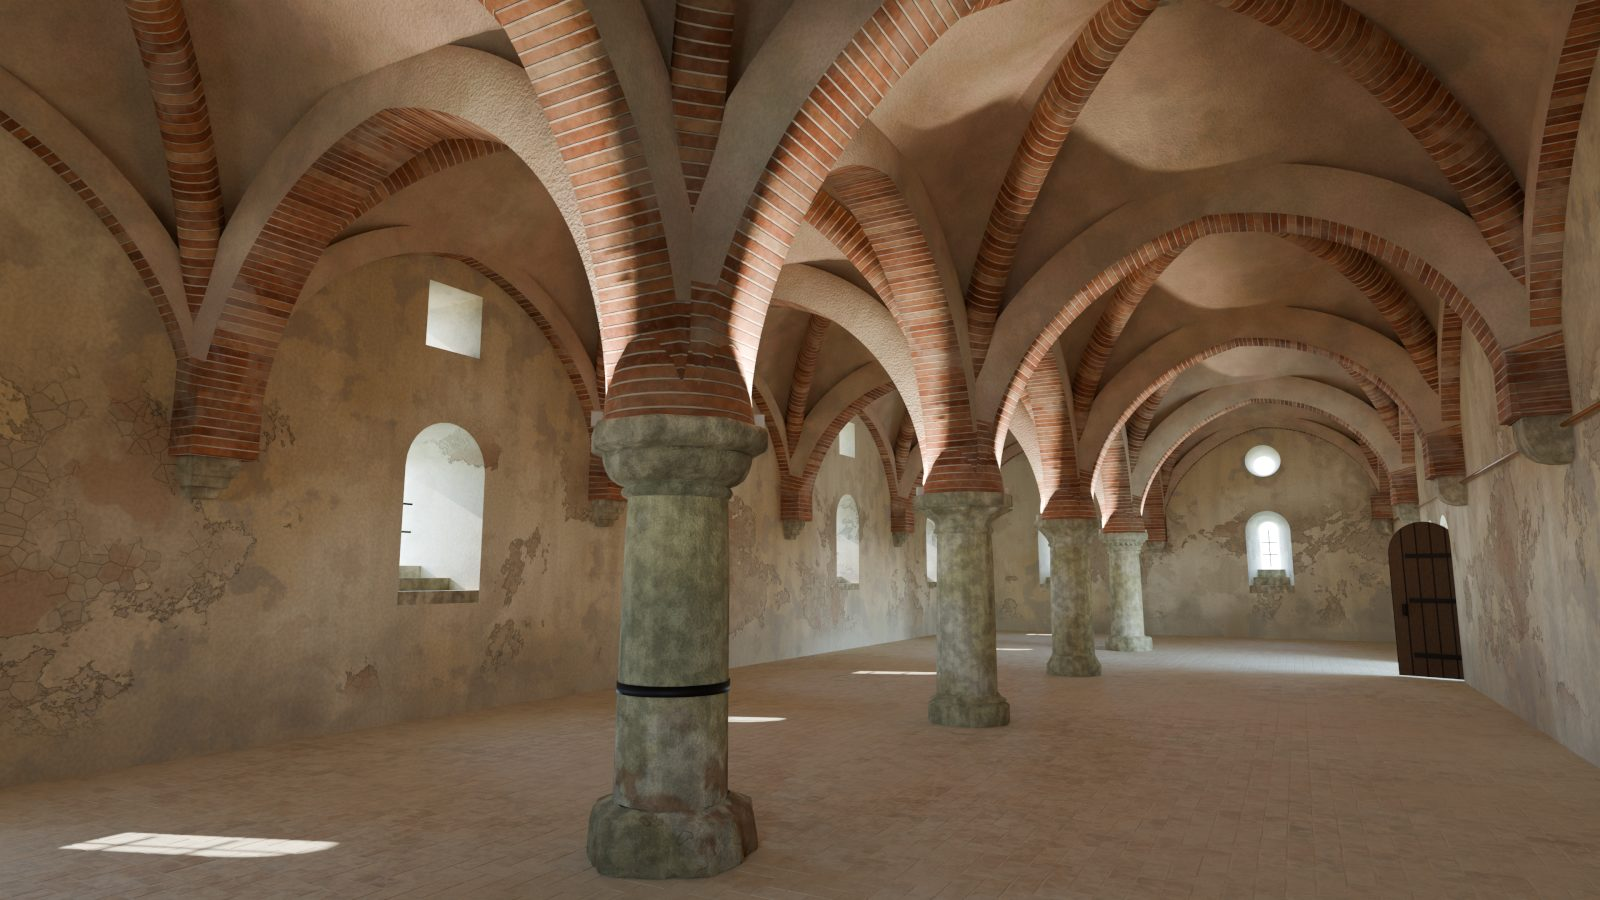
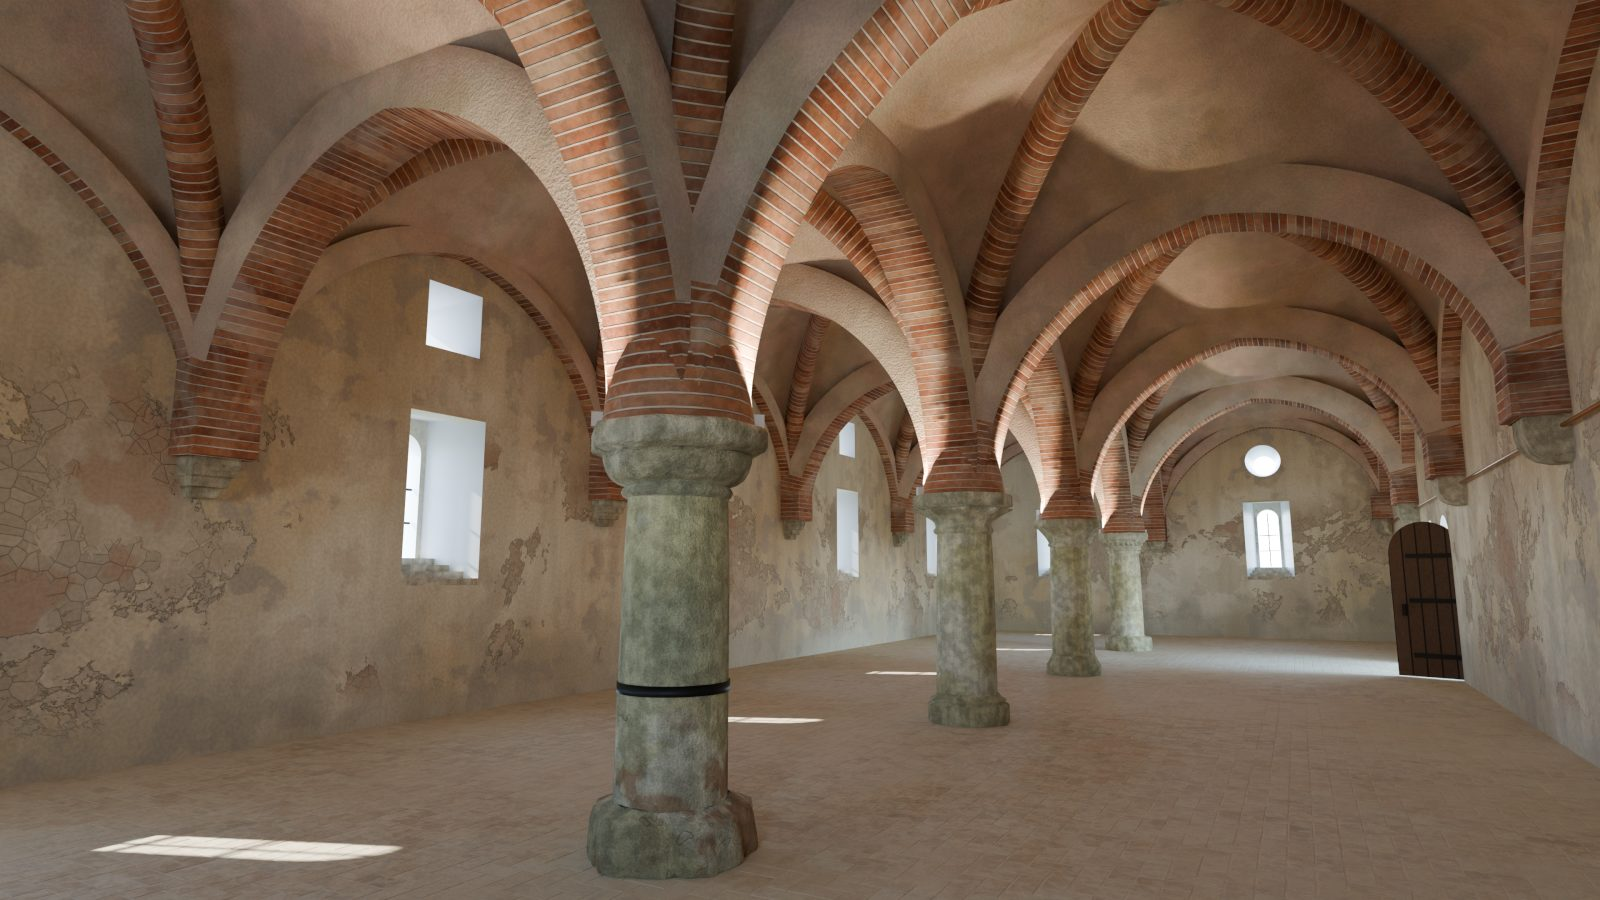
Large windows as they are today; arched heads kept as a hypothesis switch
- Measured on photo 1 with the calibrated camera (left and far wall
  agree): deep splayed rectangular recess (1.10 m at the face, 0.64 m at
  the back, 0.80 m deep) under a flat lintel at 3.52 m, sill 1.48 m, four
  pale stone steps (8 cm risers) up to a narrow round-headed light
  (0.50 m, 1.80-3.33 m) with iron glazing bars. Reveals in clean lime
  plaster (no flaking), stone lintel object.
- WINDOW_HEADS=arched builds the hypothesis: round rere-arch instead of
  the lintel (crown 0.20 m above today's soffit) -> foresteria_arched.blend.
  Documented as a reading of the forms, not history.
- wall_slab: per-opening depth, self-intersecting boolean for recess +
  light; reveal faces get their own material.

diff --git a/blender/build_foresteria.py b/blender/build_foresteria.py
@@ -48,9 +48,16 @@ LOSS_T = 0.535                 # plaster-loss threshold = nq(0.72): about 28 % o
 UPLIGHT_W = 120              # watts per uplight (two per capital): vault about as bright as the walls, as in photo 2
 FLOOR_BRICK_W = 0.14          # floor bricks are 2:1, 28 x 14 cm, laid in herringbone
 SPRINGER_PROFILE = [(0.47, HS), (0.45, HS + 0.18), (0.38, HS + 0.55)]   # (radius, z): low brick block above each capital (round, smooth-shaded)
-# splayed arched windows: inner (room side) and outer opening, sill heights z, head heights z, widths
-WIN_SIDE = dict(zb_in=1.25, zt_in=3.40, w_in=1.15, zb_out=1.75, zt_out=3.05, w_out=0.42)   # left wall, one per bay
-WIN_END = dict(zb_in=1.10, zt_in=3.25, w_in=1.05, zb_out=1.80, zt_out=3.00, w_out=0.40)    # end walls, one per nave
+# large windows (left wall, one per bay; end walls, one per nave), measured on photo 1 with the calibrated camera:
+# a deep rectangular recess under a flat lintel, steps rising to a narrow round-headed light near the outer face
+WIN = dict(zb=1.48, zt=3.52, w=1.10, depth=0.80,              # recess: sill, lintel soffit, width at the face, depth
+           w_back=0.64,                                       # splayed: width at the back of the recess, round the light
+           light_zb=1.80, light_zt=3.33, light_w=0.50,        # light: sill, top of its round head, width
+           steps=4)
+# WINDOW_HEADS=arched builds a HYPOTHESIS, not what the photos show: the recess closed by a round rere-arch instead of
+# the lintel (crown 0.20 m above today's soffit), as the original 13th-15th century form may have been
+WINDOW_HEADS = os.environ.get('WINDOW_HEADS', 'lintel')
+ARCHED_CROWN_ABOVE_LINTEL = 0.20
 WEB_SINK = 0.12              # plaster cells dip this far where they meet a rib, so rib sides always reach the plaster
 
 
@@ -361,6 +368,16 @@ def mat_plaster_wall():
     return b.finish(col, 0.92, b.bump(h, 1.0, 0.015))
 
 
+def mat_plaster_reveal():
+    """window and door reveals: clean, pale lime plaster with soft mottling (photo 1)"""
+    b = NB('plaster_reveal')
+    big = b.noise(1.2, 5, 0.6)
+    fine = b.noise(30, 4, 0.6)
+    col = b.mix(b.ramp(big, [(nq(0.10), 0), (nq(0.90), 1)]), (0.82, 0.73, 0.53), (0.74, 0.63, 0.43))
+    col = b.mul(col, b.ramp(fine, [(nq(0.10), 0.90), (nq(0.90), 1.04)]), 0.6)
+    return b.finish(col, 0.93, b.bump(fine, 0.3, 0.01))
+
+
 def mat_plaster_vault():
     """vault plaster: soft rose and ochre blotches (photo 2), a fine dark speckle and sandy grain (photo 3),
     trowel undulation"""
@@ -524,6 +541,7 @@ MAT = {}
 def make_materials():
     MAT['wall'] = mat_plaster_wall()
     MAT['vault'] = mat_plaster_vault()
+    MAT['reveal'] = mat_plaster_reveal()
     MAT['floor'] = mat_floor_mortar()
     MAT['floor_bricks'] = mat_floor_bricks()
     MAT['rib'] = mat_brick_rib()
@@ -534,6 +552,7 @@ def make_materials():
     MAT['cap_leaf'] = mat_stone('capital_leaf', (0.58, 0.55, 0.36), (0.68, 0.65, 0.45), rust=False)
     MAT['cap_panel'] = mat_stone('capital_panel', (0.59, 0.55, 0.36), (0.69, 0.65, 0.45), rust=False)
     MAT['cap_teeth'] = mat_stone('capital_teeth', (0.66, 0.63, 0.43), (0.75, 0.73, 0.53), rust=False)   # palest, column 4
+    MAT['step'] = mat_stone('step_stone', (0.70, 0.66, 0.54), (0.78, 0.74, 0.61), rust=False)   # pale worn steps
     MAT['corbel'] = mat_stone('corbel_stone', (0.50, 0.46, 0.33), (0.58, 0.53, 0.39), rust=False)
     MAT['ground'] = mat_ground()
     MAT['iron'] = flat('iron', (0.03, 0.03, 0.03), 0.5, 0.8)
@@ -766,8 +785,10 @@ def wall_slab(name, axis, at, outward, openings):
     # openings -> one cutter object, one boolean
     if openings:
         cb = bmesh.new()
-        for (pa, pb, d_in) in openings:
-            hb = hull_cutter(pa, pb, lambda a, z, d: p3(a, z, d), d_in, WALL_T + 0.1)
+        for op in openings:
+            pa, pb, d_in = op[:3]
+            d_out = op[3] if len(op) > 3 else WALL_T + 0.1
+            hb = hull_cutter(pa, pb, lambda a, z, d: p3(a, z, d), d_in, d_out)
             m = bpy.data.meshes.new('tmp')
             hb.to_mesh(m)
             hb.free()
@@ -779,22 +800,40 @@ def wall_slab(name, axis, at, outward, openings):
         mod.operation = 'DIFFERENCE'
         mod.object = cut
         mod.solver = 'EXACT'
+        mod.use_self = True             # recess and light cutters overlap
         bpy.context.view_layer.objects.active = ob
         for o in bpy.context.view_layer.objects:
             o.select_set(False)
         ob.select_set(True)
         bpy.ops.object.modifier_apply(modifier='cut')
         bpy.data.objects.remove(cut, do_unlink=True)
+        # reveals, soffits and sills of the openings: clean lime plaster (as in the photos), not the flaking wall
+        n_main = Vector((1, 0, 0)) if axis == 'x' else Vector((0, 1, 0))
+        ob.data.materials.append(MAT['reveal'])
+        for poly in ob.data.polygons:
+            if abs(poly.normal.dot(n_main)) < 0.9 and HS - 2.0 < poly.center.z < HS + 2.5 and poly.center.z > 0.05:
+                poly.material_index = 1
     return ob
 
 
+def window_openings(c):
+    """cutters for one large window: the recess (flat lintel head, or the arched hypothesis) and the light"""
+    w = WIN
+    if WINDOW_HEADS == 'arched':
+        crown = w['zt'] + ARCHED_CROWN_ABOVE_LINTEL
+        front, back = arch_outline(c, w['zb'], crown, w['w']), arch_outline(c, w['zb'], crown, w['w_back'])
+    else:
+        front, back = rect_outline(c, w['zb'], w['zt'], w['w']), rect_outline(c, w['zb'], w['zt'], w['w_back'])
+    light = arch_outline(c, w['light_zb'], w['light_zt'], w['light_w'])
+    return [(front, back, -0.05, w['depth']), (light, light, w['depth'] - 0.03, WALL_T + 0.1)]
+
+
 def build_walls():
-    # left wall (x=0): arched splayed window per bay, plus small lunette window
+    # left wall (x=0): large window per bay, plus small lunette window
     left = []
     for j in range(NY):
         c = j * S + S / 2
-        ws = WIN_SIDE
-        left.append((arch_outline(c, ws['zb_in'], ws['zt_in'], ws['w_in']), arch_outline(c, ws['zb_out'], ws['zt_out'], ws['w_out']), -0.05))
+        left += window_openings(c)
         left.append((rect_outline(c, 4.25, 5.05, 0.80), rect_outline(c, 4.45, 4.90, 0.35), -0.05))
     wall_slab('wall_left', 'x', 0.0, -1, left)
 
@@ -804,69 +843,64 @@ def build_walls():
         right.append((arch_outline(c, -0.2, DOOR_TOP, DOOR_W), arch_outline(c, -0.2, DOOR_TOP, DOOR_W), -0.05))
     wall_slab('wall_right', 'x', W, +1, right)
 
-    # end walls: arched window + oculus per nave
+    # end walls: large window + oculus per nave
     ends = []
     for i in range(NX):
         c = i * S + S / 2
-        we = WIN_END
-        ends.append((arch_outline(c, we['zb_in'], we['zt_in'], we['w_in']), arch_outline(c, we['zb_out'], we['zt_out'], we['w_out']), -0.05))
+        ends += window_openings(c)
         ends.append((circle_outline(c, 4.55, 0.42), circle_outline(c, 4.55, 0.24), -0.05))
     wall_slab('wall_near', 'y', 0.0, -1, ends)
     wall_slab('wall_far', 'y', L, +1, ends)
 
 
-def window_steps():
-    """three stone treads in each arched window embrasure, rising toward the glass as in photo 1.
-    They fill the sloped sill the window cutter leaves (inner depth -0.05, outer WALL_T + 0.1)."""
-    bm = bmesh.new()
-    d_in, d_out = -0.05, WALL_T + 0.1
-
-    def treads(axis, at, outward, c, w):
-        sill = lambda d: w['zb_in'] + (w['zb_out'] - w['zb_in']) * (d - d_in) / (d_out - d_in)
-        width = lambda d: w['w_in'] + (w['w_out'] - w['w_in']) * (d - d_in) / (d_out - d_in)
-        n = 3
-        for k in range(n):
-            d0, d1 = WALL_T * k / n, WALL_T * (k + 1) / n
-            top = sill(d1)
-            if k == 0:                       # first tread starts at the sill line, flush with the wall face
-                d0, bot = 0.003, sill(0.0)
-            else:                            # buried in the wall below the slope
-                bot = w['zb_in'] - 0.3
-            wd = width(max(d0, 0.0)) + 0.06  # a few cm into the reveals
-            dc, dl = (d0 + d1) / 2, d1 - d0
-            if axis == 'x':
-                add_box(bm, (at + outward * dc, c, (top + bot) / 2), (dl, wd, top - bot))
-            else:
-                add_box(bm, (c, at + outward * dc, (top + bot) / 2), (wd, dl, top - bot))
-
-    for j in range(NY):
-        treads('x', 0.0, -1, j * S + S / 2, WIN_SIDE)
+def window_places():
+    """(axis, wall plane, outward sign, centre along the wall) of every large window"""
+    out = [('x', 0.0, -1, j * S + S / 2) for j in range(NY)]
     for i in range(NX):
-        c = i * S + S / 2
-        treads('y', 0.0, -1, c, WIN_END)
-        treads('y', L, +1, c, WIN_END)
-    return to_obj('window_steps', bm, MAT['corbel'])
+        out += [('y', 0.0, -1, i * S + S / 2), ('y', L, +1, i * S + S / 2)]
+    return out
+
+
+def wall_box(bm, axis, at, outward, c, d0, d1, z0, z1, width):
+    """box in a wall's frame: depth d0..d1 behind the inner face, z0..z1, width along the wall"""
+    dc, dl = (d0 + d1) / 2, d1 - d0
+    if axis == 'x':
+        add_box(bm, (at + outward * dc, c, (z0 + z1) / 2), (dl, width, z1 - z0))
+    else:
+        add_box(bm, (c, at + outward * dc, (z0 + z1) / 2), (width, dl, z1 - z0))
+
+
+def window_steps():
+    """stone steps filling each recess from its sill up to the light, as in photo 1 (about 8 cm risers); in the
+    lintel version also the stone lintel, hanging 4 cm below the soffit"""
+    w, bm = WIN, bmesh.new()
+    n, D = w['steps'], w['depth']
+    rise = (w['light_zb'] - w['zb']) / n
+    for (axis, at, outward, c) in window_places():
+        for k in range(n):
+            d0 = 0.003 if k == 0 else D * k / n
+            width = w['w'] + (w['w_back'] - w['w']) * d0 / D + 0.04        # follows the splay, ends hidden in the reveals
+            wall_box(bm, axis, at, outward, c, d0, D * (k + 1) / n, w['zb'], w['zb'] + rise * (k + 1), width)
+    steps = to_obj('window_steps', bm, MAT['step'])
+    if WINDOW_HEADS != 'arched':
+        bm = bmesh.new()
+        for (axis, at, outward, c) in window_places():
+            wall_box(bm, axis, at, outward, c, 0.005, 0.35, w['zt'] - 0.04, w['zt'] + 0.12, w['w'] + 0.30)
+        to_obj('window_lintels', bm, MAT['reveal'])
+    return steps
 
 
 def window_frames():
-    bm = bmesh.new()
-    # thin black bars across the outer opening of the end-wall and left-wall arched windows
-    def frame_x(xp, c, zb, zt, w):
-        add_box(bm, (xp, c, (zb + zt - w / 2) / 2), (0.03, 0.025, zt - w / 2 - zb))
-        add_box(bm, (xp, c, zb + (zt - w / 2 - zb) * 0.33), (0.03, w, 0.025))
-        add_box(bm, (xp, c, zb + (zt - w / 2 - zb) * 0.66), (0.03, w, 0.025))
-
-    def frame_y(yp, c, zb, zt, w):
-        add_box(bm, (c, yp, (zb + zt - w / 2) / 2), (0.025, 0.03, zt - w / 2 - zb))
-        add_box(bm, (c, yp, zb + (zt - w / 2 - zb) * 0.33), (w, 0.03, 0.025))
-        add_box(bm, (c, yp, zb + (zt - w / 2 - zb) * 0.66), (w, 0.03, 0.025))
-
-    for j in range(NY):
-        frame_x(-WALL_T + 0.35, j * S + S / 2, 1.78, 3.02, 0.40)
-    for i in range(NX):
-        c = i * S + S / 2
-        frame_y(-WALL_T + 0.35, c, 1.82, 2.98, 0.38)
-        frame_y(L + WALL_T - 0.35, c, 1.82, 2.98, 0.38)
+    """thin iron glazing bars in each round-headed light"""
+    w, bm = WIN, bmesh.new()
+    zb, zt, lw = w['light_zb'] + 0.02, w['light_zt'] - 0.02, w['light_w'] - 0.04
+    zs = zt - lw / 2                                  # springing of the round head
+    d = w['depth'] + 0.12
+    for (axis, at, outward, c) in window_places():
+        wall_box(bm, axis, at, outward, c, d - 0.015, d + 0.015, zb, zs + 0.15, 0.025)     # mullion
+        for f in (0.33, 0.66):
+            z = zb + (zs - zb) * f
+            wall_box(bm, axis, at, outward, c, d - 0.015, d + 0.015, z - 0.0125, z + 0.0125, lw)
     return to_obj('window_frames', bm, MAT['glassframe'])
 
 
@@ -1337,7 +1371,8 @@ def main():
     sc = bpy.context.scene
     sc.render.engine = 'CYCLES'
     sc.render.resolution_x, sc.render.resolution_y = 1600, 900
-    path = os.path.join(HERE, 'foresteria_furnished.blend' if WITH_FURNITURE else 'foresteria.blend')
+    name = 'foresteria' + ('_furnished' if WITH_FURNITURE else '') + ('_arched' if WINDOW_HEADS == 'arched' else '')
+    path = os.path.join(HERE, name + '.blend')
     bpy.context.preferences.filepaths.save_version = 0     # no .blend1 backup (not written to user prefs in -b)
     bpy.ops.wm.save_as_mainfile(filepath=path)
     print('saved', path)

diff --git a/blender/README.md b/blender/README.md
@@ -7,7 +7,7 @@ from what the photos show, then cameras are placed where the photos were taken s
 
 | File | What |
 |---|---|
-| `build_foresteria.py` | Builds the whole scene, saves `foresteria.blend` (empty room). With `FURNITURE=1` it saves `foresteria_furnished.blend` instead, with the chairs, tables and extinguishers from the photos. All dimensions are parameters at the top. |
+| `build_foresteria.py` | Builds the whole scene, saves `foresteria.blend` (empty room). With `FURNITURE=1` it saves `foresteria_furnished.blend` instead, with the chairs, tables and extinguishers from the photos; with `WINDOW_HEADS=arched` it saves `foresteria_arched.blend`, the arched-window hypothesis. All dimensions are parameters at the top. |
 | `render.py` | `Blender -b foresteria.blend --python render.py -- final cam_photo1 cam_photo2 cam_photo3 cam_overview` (`draft` for a ~10 s preview) |
 | `compare.py` | Writes photo-vs-render side-by-sides to `compare/` |
 | `structural_check.py` | Thrust-line check of the vault and its supports; reads its dimensions straight from `build_foresteria.py`. Output in `structural_report.txt`. |
@@ -22,6 +22,7 @@ Rebuild and re-render:
 B=/Applications/Blender.app/Contents/MacOS/Blender
 $B -b --python build_foresteria.py                  # empty room -> foresteria.blend
 FURNITURE=1 $B -b --python build_foresteria.py      # with furniture -> foresteria_furnished.blend
+WINDOW_HEADS=arched $B -b --python build_foresteria.py   # hypothesis: arched window heads -> foresteria_arched.blend
 $B -b foresteria_furnished.blend --python render.py -- final cam_photo1 cam_photo2 cam_photo3
 $B -b foresteria.blend --python render.py -- final cam_overview
 $B -b --python compare.py
@@ -53,10 +54,16 @@ python3 structural_check.py > structural_report.txt
   white lime joints. The square-section arches are brick only on the soffit; above the springer blocks their
   sides are plastered like the cells, which gives the light/red banding seen in the photos. Lower down, where
   the ribs gather above the capitals, the sides stay brick.
-- Walls with splayed arched windows (left wall, one per bay) and small lunette windows, an arched window
-  plus an oculus per nave in each end wall, two doorways in the right wall near the far end. Window sizes are
-  `WIN_SIDE` / `WIN_END`. Each arched window has three stone steps rising toward the glass (`window_steps()`),
-  as in photo 1; the real steps are shallower than these 15 cm ones.
+- Large windows (left wall, one per bay; one per nave in each end wall), as they are today and measured on
+  photo 1 with the calibrated camera (`WIN`): a deep, strongly splayed rectangular recess (1.10 m wide at the
+  face, 0.64 m at the back, 0.80 m deep) under a flat lintel at 3.52 m, its sill at 1.48 m, four pale stone steps
+  (8 cm risers) rising to a narrow round-headed light (0.50 m wide, 1.80-3.33 m) with iron glazing bars. The
+  reveals are clean lime plaster, without the wall's flaking. Plus small rectangular windows high in the left
+  wall's lunettes, an oculus per nave in the end walls, and two doorways in the right wall near the far end.
+- **Hypothesis, not in the photos:** `WINDOW_HEADS=arched` builds the recesses with a round rere-arch instead of
+  the lintel (crown 0.20 m above today's soffit), saved as `foresteria_arched.blend`. A flat lintel across a 1.1 m
+  splay in a 13th-15th century vaulted hall looks like a later alteration, and an arched head would be the usual
+  original form; I found no source on these windows, so this is a reading of the forms, not documented history.
 - Brick floor laid in 90-degree herringbone, as in photos 1 and 2: 7,771 real bricks of 28 x 14 cm
   (`floor_bricks()`, `FLOOR_BRICK_W`) with worn chamfered edges, small random twist, tilt and size, over a
   dusty mortar bed (the `floor` object). Each brick carries two random attributes that pick its tone, from

diff --git a/README.md b/README.md
@@ -47,6 +47,7 @@ Needs Blender 5.1 (paths below are for macOS). From `blender/`:
 B=/Applications/Blender.app/Contents/MacOS/Blender
 $B -b --python build_foresteria.py                      # empty hall -> foresteria.blend
 FURNITURE=1 $B -b --python build_foresteria.py          # with the furniture from the photos -> foresteria_furnished.blend
+WINDOW_HEADS=arched $B -b --python build_foresteria.py  # hypothesis: original arched window heads -> foresteria_arched.blend
 $B -b foresteria.blend --python render_hero.py -- final F          # 3840x2160 still, about 11 min on an Apple-silicon Mac
 $B -b foresteria_furnished.blend --python render.py -- final cam_photo1 cam_photo2 cam_photo3
 $B -b --python compare.py                               # needs the three photos next to this README
@@ -67,7 +68,8 @@ $B foresteria.blend --python walk.py                    # WASD + mouse, Shift fa
 - Ribs spring higher on the side walls than on the columns, from small corbels, as measured on the photos.
 - Pointed brick rib vault with round diagonal ribs, brick soffits with white lime joints, plastered sides and
   cells, and a rosette keystone in each bay.
-- Pale lime-plastered walls with splayed arched windows and stone sill steps, oculi in the end walls, two
+- Pale lime-plastered walls with deep, splayed, flat-lintel window recesses and stone steps up to narrow
+  round-headed lights (as today; an arched-head hypothesis is a build switch), oculi in the end walls, two
   doorways in the right wall (one with a plank door).
 - Herringbone floor of about 7,800 individual worn cotto bricks.
 - Each material has its own procedural weathering (Perlin and Voronoi noise): flaking wall plaster, stained and
